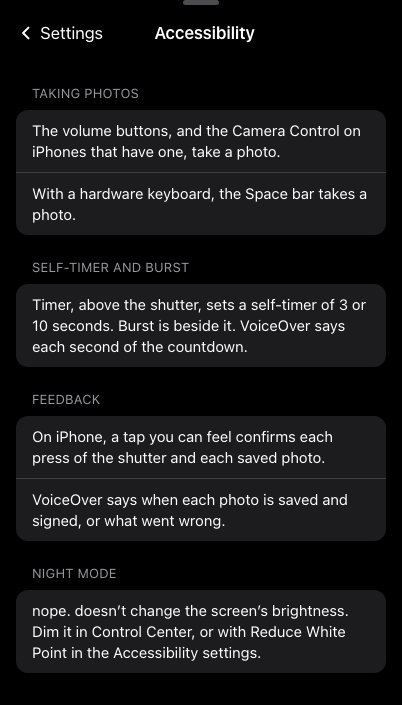
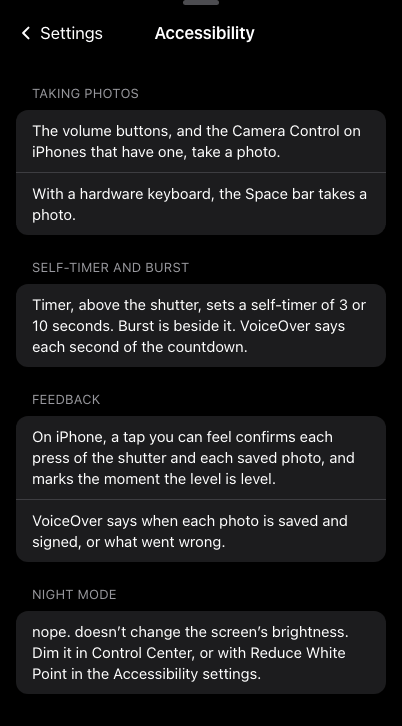
Design: level haptic wording in two Settings mockups
Update the Viewfinder Overlays and Accessibility mockups to the wording
accepted in docs/design/level-haptic.md (decision 4) and now in the
app's strings:

- settings-overlays: the Level explanation gains "On iPhone, you feel a
  tap when it's level."
- settings-accessibility: the first Feedback row gains "and marks the
  moment the level is level."

Both PNGs are re-rendered at 1x, 402 pt wide, at full scrolling height.
Each page is one line taller because the longer text wraps.

diff --git a/docs/design/screens/settings-overlays.html b/docs/design/screens/settings-overlays.html
@@ -185,7 +185,7 @@ html{background:#101012}body{margin:0;color:#f2f2f7;font:15px/1.45 -apple-system
 </style>
 </head>
 <body>
-<div class="stage"><div class="form " style="width:402px;border-radius:24px 24px 0 0;padding-bottom:32px;"><div class=grab></div><div class="nav"><div class="back"><svg class="ic dirx" width="20" height="20" viewBox="0 0 24 24" fill="none" stroke="currentColor" stroke-width="2.4" stroke-linecap="round" stroke-linejoin="round" aria-hidden="true"><path d="M15 5.5 8.5 12l6.5 6.5"/></svg>Settings</div><span>Viewfinder Overlays</span><div class="done"></div></div><h5>Guides</h5><div class="grp"><div class="cell"><div class="l">Grid<small>Guide lines over the viewfinder. They aren’t saved in the photo.</small></div><div class="tog on"></div></div><div class="cell"><div class="l">Level<small>A horizon bar, or a top-down level when you point straight down. Uses the motion sensors only while it shows.</small></div><div class="tog"></div></div></div><h5>Grid Style</h5><div class="grp"><div class="cell"><div class="l">Thirds</div><svg class="ic " width="18" height="18" viewBox="0 0 24 24" fill="none" stroke="currentColor" stroke-width="2.6" stroke-linecap="round" stroke-linejoin="round" aria-hidden="true"><path d="m5 12.5 4.5 4.5L19 7"/></svg></div><div class="cell"><div class="l">4 × 4</div></div><div class="cell"><div class="l">Square</div></div></div><h5>Live Aids</h5><div class="grp"><div class="cell"><div class="l">Focus Peaking<small>Highlights the sharpest edges in magenta.</small></div><div class="tog"></div></div><div class="cell"><div class="l">Histogram<small>Shown with the manual controls. It measures the processed live preview, not the RAW.</small></div><div class="tog"></div></div><div class="cell"><div class="l">Live Camera Readout<small>The camera’s live values, such as shutter, ISO, focus and white balance.</small></div><div class="tog on"></div></div><div class="cell"><div class="l">Keep Readout in Clean View<small>Keeps the readout on screen when the other controls are hidden.</small></div><div class="tog"></div></div></div><div style="height:24px"></div><div class="grp"><div class="cell" style="align-items:flex-start"><div class="l" style="font-size:15px;line-height:1.4">Live aids are measured on the preview, a few times a second, only while they show. Nothing is saved.</div></div></div></div></div>
+<div class="stage"><div class="form " style="width:402px;border-radius:24px 24px 0 0;padding-bottom:32px;"><div class=grab></div><div class="nav"><div class="back"><svg class="ic dirx" width="20" height="20" viewBox="0 0 24 24" fill="none" stroke="currentColor" stroke-width="2.4" stroke-linecap="round" stroke-linejoin="round" aria-hidden="true"><path d="M15 5.5 8.5 12l6.5 6.5"/></svg>Settings</div><span>Viewfinder Overlays</span><div class="done"></div></div><h5>Guides</h5><div class="grp"><div class="cell"><div class="l">Grid<small>Guide lines over the viewfinder. They aren’t saved in the photo.</small></div><div class="tog on"></div></div><div class="cell"><div class="l">Level<small>A horizon bar, or a top-down level when you point straight down. On iPhone, you feel a tap when it’s level. Uses the motion sensors only while it shows.</small></div><div class="tog"></div></div></div><h5>Grid Style</h5><div class="grp"><div class="cell"><div class="l">Thirds</div><svg class="ic " width="18" height="18" viewBox="0 0 24 24" fill="none" stroke="currentColor" stroke-width="2.6" stroke-linecap="round" stroke-linejoin="round" aria-hidden="true"><path d="m5 12.5 4.5 4.5L19 7"/></svg></div><div class="cell"><div class="l">4 × 4</div></div><div class="cell"><div class="l">Square</div></div></div><h5>Live Aids</h5><div class="grp"><div class="cell"><div class="l">Focus Peaking<small>Highlights the sharpest edges in magenta.</small></div><div class="tog"></div></div><div class="cell"><div class="l">Histogram<small>Shown with the manual controls. It measures the processed live preview, not the RAW.</small></div><div class="tog"></div></div><div class="cell"><div class="l">Live Camera Readout<small>The camera’s live values, such as shutter, ISO, focus and white balance.</small></div><div class="tog on"></div></div><div class="cell"><div class="l">Keep Readout in Clean View<small>Keeps the readout on screen when the other controls are hidden.</small></div><div class="tog"></div></div></div><div style="height:24px"></div><div class="grp"><div class="cell" style="align-items:flex-start"><div class="l" style="font-size:15px;line-height:1.4">Live aids are measured on the preview, a few times a second, only while they show. Nothing is saved.</div></div></div></div></div>
 <div class="note"><b>Viewfinder Overlays</b>Now in the Screen group. Grid Style lists Thirds, 4 × 4 and Square (issue 76). Grid, Level, Focus Peaking and the readout are also Q tiles; each changes the same value. With these switches the Settings list reads Grid, Live Camera Readout. Drawn 402 pt wide, at its full scrolling height. <a href="settings-overlays.png">PNG</a> · <a href="../settings.html">Back to the set</a> · <a href="../overview.html">Overview</a></div>
 </body>
 </html>

diff --git a/docs/design/screens/settings-accessibility.html b/docs/design/screens/settings-accessibility.html
@@ -185,7 +185,7 @@ html{background:#101012}body{margin:0;color:#f2f2f7;font:15px/1.45 -apple-system
 </style>
 </head>
 <body>
-<div class="stage"><div class="form " style="width:402px;border-radius:24px 24px 0 0;padding-bottom:32px;"><div class=grab></div><div class="nav"><div class="back"><svg class="ic dirx" width="20" height="20" viewBox="0 0 24 24" fill="none" stroke="currentColor" stroke-width="2.4" stroke-linecap="round" stroke-linejoin="round" aria-hidden="true"><path d="M15 5.5 8.5 12l6.5 6.5"/></svg>Settings</div><span>Accessibility</span><div class="done"></div></div><h5>Taking Photos</h5><div class="grp"><div class="cell" style="align-items:flex-start"><div class="l" style="font-size:15px;line-height:1.4">The volume buttons, and the Camera Control on iPhones that have one, take a photo.</div></div><div class="cell" style="align-items:flex-start"><div class="l" style="font-size:15px;line-height:1.4">With a hardware keyboard, the Space bar takes a photo.</div></div></div><h5>Self-Timer and Burst</h5><div class="grp"><div class="cell" style="align-items:flex-start"><div class="l" style="font-size:15px;line-height:1.4">Timer, above the shutter, sets a self-timer of 3 or 10 seconds. Burst is beside it. VoiceOver says each second of the countdown.</div></div></div><h5>Feedback</h5><div class="grp"><div class="cell" style="align-items:flex-start"><div class="l" style="font-size:15px;line-height:1.4">On iPhone, a tap you can feel confirms each press of the shutter and each saved photo.</div></div><div class="cell" style="align-items:flex-start"><div class="l" style="font-size:15px;line-height:1.4">VoiceOver says when each photo is saved and signed, or what went wrong.</div></div></div><h5>Night Mode</h5><div class="grp"><div class="cell" style="align-items:flex-start"><div class="l" style="font-size:15px;line-height:1.4">nope. doesn’t change the screen’s brightness. Dim it in Control Center, or with Reduce White Point in the Accessibility settings.</div></div></div></div></div>
+<div class="stage"><div class="form " style="width:402px;border-radius:24px 24px 0 0;padding-bottom:32px;"><div class=grab></div><div class="nav"><div class="back"><svg class="ic dirx" width="20" height="20" viewBox="0 0 24 24" fill="none" stroke="currentColor" stroke-width="2.4" stroke-linecap="round" stroke-linejoin="round" aria-hidden="true"><path d="M15 5.5 8.5 12l6.5 6.5"/></svg>Settings</div><span>Accessibility</span><div class="done"></div></div><h5>Taking Photos</h5><div class="grp"><div class="cell" style="align-items:flex-start"><div class="l" style="font-size:15px;line-height:1.4">The volume buttons, and the Camera Control on iPhones that have one, take a photo.</div></div><div class="cell" style="align-items:flex-start"><div class="l" style="font-size:15px;line-height:1.4">With a hardware keyboard, the Space bar takes a photo.</div></div></div><h5>Self-Timer and Burst</h5><div class="grp"><div class="cell" style="align-items:flex-start"><div class="l" style="font-size:15px;line-height:1.4">Timer, above the shutter, sets a self-timer of 3 or 10 seconds. Burst is beside it. VoiceOver says each second of the countdown.</div></div></div><h5>Feedback</h5><div class="grp"><div class="cell" style="align-items:flex-start"><div class="l" style="font-size:15px;line-height:1.4">On iPhone, a tap you can feel confirms each press of the shutter and each saved photo, and marks the moment the level is level.</div></div><div class="cell" style="align-items:flex-start"><div class="l" style="font-size:15px;line-height:1.4">VoiceOver says when each photo is saved and signed, or what went wrong.</div></div></div><h5>Night Mode</h5><div class="grp"><div class="cell" style="align-items:flex-start"><div class="l" style="font-size:15px;line-height:1.4">nope. doesn’t change the screen’s brightness. Dim it in Control Center, or with Reduce White Point in the Accessibility settings.</div></div></div></div></div>
 <div class="note"><b>Accessibility</b>Facts, not switches. The Self-Timer and Burst text names the drive strip in place of Quick Controls. The advice on dimming the screen moves here from the Night Mode explanation on the Settings list, which is now one statement (a draft for review). Drawn 402 pt wide, at its full scrolling height. <a href="settings-accessibility.png">PNG</a> · <a href="../settings.html">Back to the set</a> · <a href="../overview.html">Overview</a></div>
 </body>
 </html>
